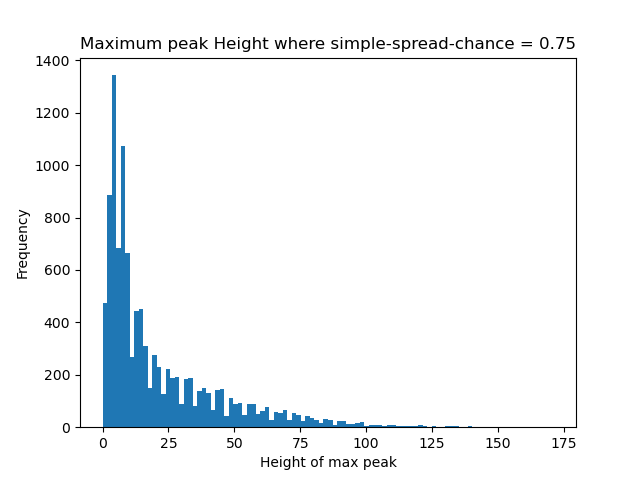
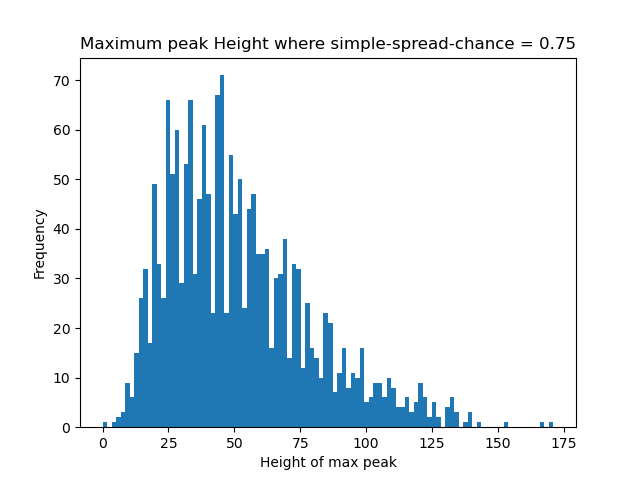
correct figs

diff --git a/data/try2/initial_hist.py b/data/try2/initial_hist.py
@@ -315,13 +315,13 @@ def make_histograms(dataset):
     #histogram 1: p = 0.01
     df_adj = createdataframe(dataset)
     df_with_class=loop_per_row(df_adj)
-    df_set_p = df_with_class.loc[df_with_class['simple-spread-chance'] == 0.01]
+    df_set_p = df_with_class.loc[df_with_class['simple-spread-chance'] == 0.75]
     print('edit p', df_set_p)
-    class_var=df_with_class['class']
+    class_var=df_set_p['class']
     plt.hist(class_var, bins= 100)
     plt.xlabel('Height of max peak')
     plt.ylabel('Frequency')
-    plt.title('Maximum peak Height where simple-spread-chance = 0.01')
+    plt.title('Maximum peak Height where simple-spread-chance = 0.75')
     plt.show()
         #plot based on height of peak
         #plot based on time of peak
